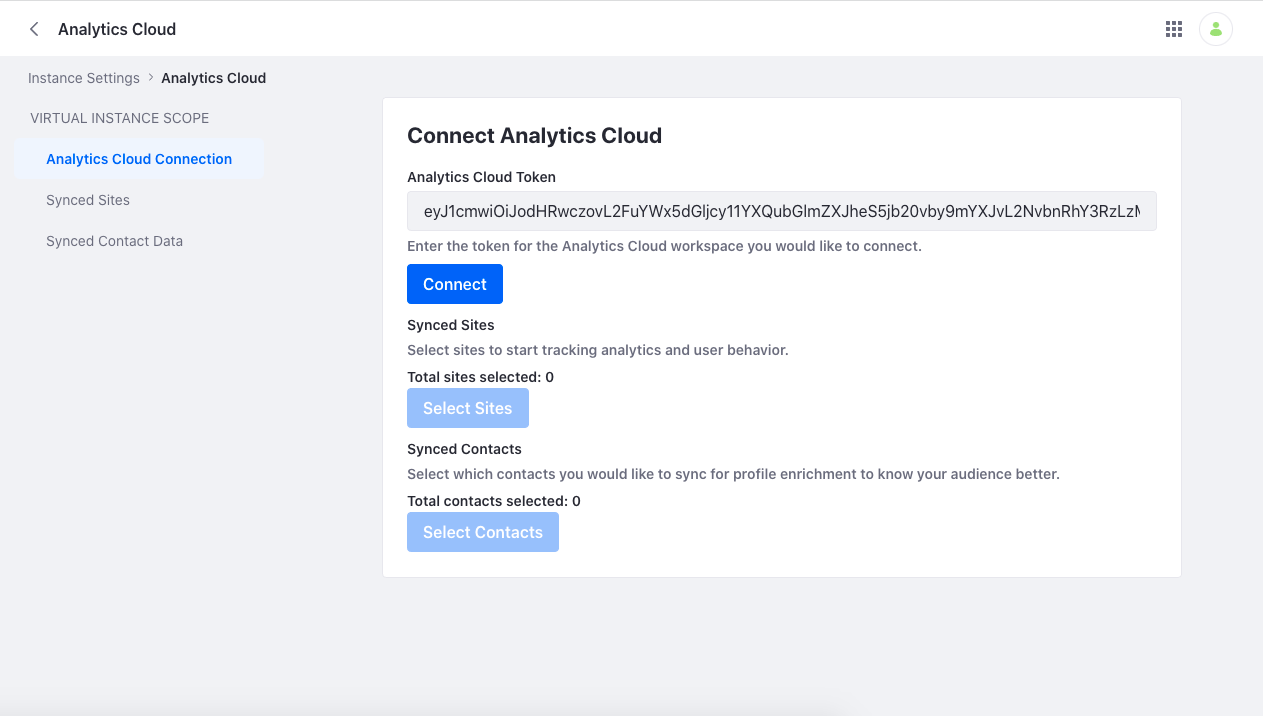
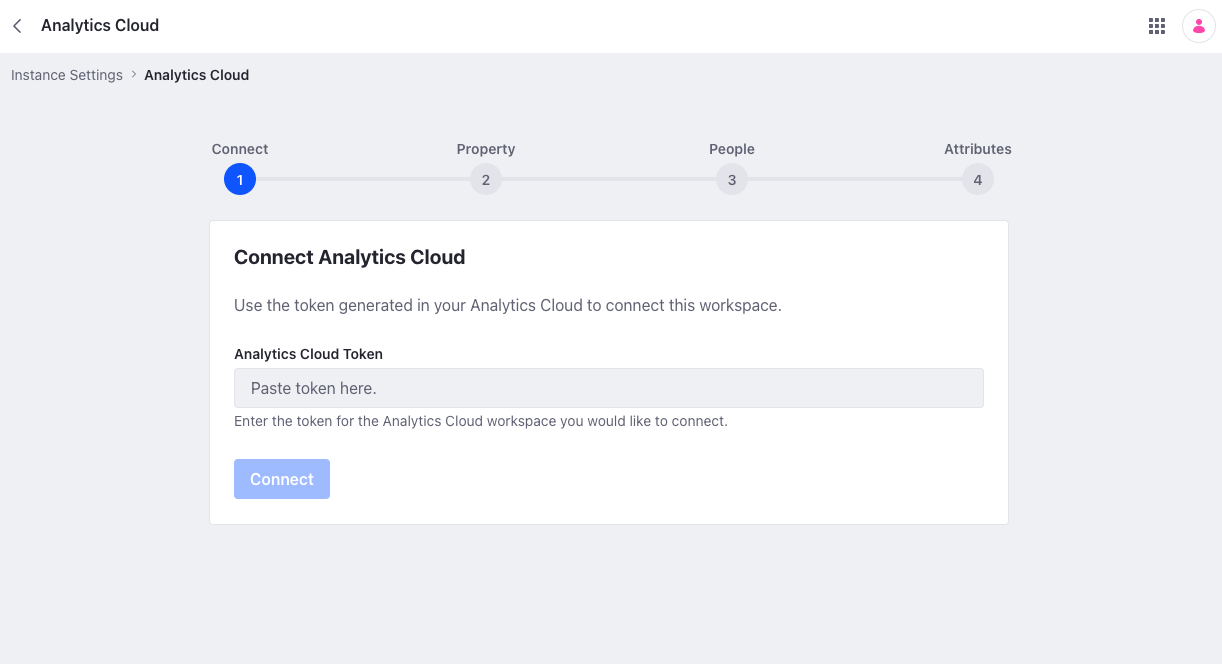
LRDOCS-10561 updates Connecting Liferay DXP to AC article w/imgs, removes old version content

diff --git a/docs/analytics-cloud/latest/en/getting-started/connecting-liferay-dxp-to-analytics-cloud.md b/docs/analytics-cloud/latest/en/getting-started/connecting-liferay-dxp-to-analytics-cloud.md
@@ -17,30 +17,60 @@ To begin the setup process, there are a few requirements:
     * 7.1 Fix Pack 22
     * 7.0 Fix Pack 98
 
-1. You must have access to at least one Analytics Cloud workspace. Note, as a paid Analytics Cloud user, you should see your workspace upon login. If you don't, contact support through [help.liferay.com](https://help.liferay.com/) or email us at <analytics-cloud@liferay.com>. 
+1. You must have access to at least one Analytics Cloud workspace. Note, as a paid Analytics Cloud user, you should see your workspace upon login. If you don't, contact support through [help.liferay.com](https://help.liferay.com/) or email us at <analytics-cloud@liferay.com>.
 
 ## Connection Token
 
-Next, get your Analytics Cloud token and use it to connect your Liferay instance. Liferay Analytics Cloud and Liferay DXP connect via a secure, encrypted token. It's generated by Analytics Cloud and must be copied and pasted into your Liferay DXP configuration.
+Next, get your Analytics Cloud token and use it to connect your Liferay instance. Liferay Analytics Cloud and Liferay DXP connect via a secure, encrypted token. It's generated by Analytics Cloud and must be copied and pasted into your Liferay DXP configuration. If you're using Liferay DXP 7.4 U66 or earlier, see [Connecting Older Versions of Liferay DXP](../workspace-settings/connecting-older-versions-of-liferay-dxp.md) for more information.
 
-1. Log into Analytics Cloud. Select your workspace. If it's your first time logging in, you see an onboarding guide. Click _Next_ and you're shown the Analytics Cloud token in the next screen. Click the Copy icon (![copy icon](../images/icon-copy.png)) to copy the token to your clipboard.
+1. Log into Analytics Cloud. Select your workspace. If it's your first time logging in, you see an onboarding guide. Click _Next_ and you're shown the Analytics Cloud token in the next screen. Click the _Copy_ (![copy icon](../images/icon-copy.png)) icon to copy the token to your clipboard.
 
-   ![You see an onboarding guide upon first login.](./connecting-liferay-dxp-to-analytics-cloud/images/01.png)
+   ![You see an onboarding guide when you login first.](./connecting-liferay-dxp-to-analytics-cloud/images/01.png)
 
    If you canceled out of the onboarding guide, navigate to _Settings_ &rarr; _Data Sources_. Click _Add Data Source_. Select _Liferay DXP_ and the Analytics Cloud token appears. Click the Copy icon (![copy icon](../images/icon-copy.png)) to copy the token to your clipboard.
 
-1. Log into your Liferay DXP instance. Open the Global Menu (![Global Menu](../images/icon-applications-menu.png)). Navigate to _Configuration_ &rarr; _Instance Settings_. Under _Platform_, click _Analytics Cloud_. Paste the Analytics Cloud token in the field and click _Connect_.
+1. Log into your Liferay DXP instance. Open the Global Menu (![Global Menu](../images/icon-applications-menu.png)) and navigate to _Configuration_ &rarr; _Instance Settings_.
 
-    ![Copy the token and click the connect button.](./connecting-liferay-dxp-to-analytics-cloud/images/02.png)
+1. Under _Platform_, click _Analytics Cloud_. You see a 4-step onboarding guide the first time you do this. The first step is to paste the Analytics Cloud token you copied earlier and click _Connect_.
 
-    ```{note}
-    On Liferay DXP 7.0, Analytics Cloud Admin is under *Configuration* &rarr; *Analytics Cloud*.
-    ```
+   ![Copy the token and click Connect.](./connecting-liferay-dxp-to-analytics-cloud/images/02.png)
 
-1. Upon successful connection, the following message appears at the bottom left of your screen:
+1. You can choose the property already created or create a new one by clicking on the _Add_ (![Add Button](../images/icon-add.png)) button. A property is a label associated with a single Liferay site or multiple Liferay sites. Once selected, click _Assign_.
 
-   `Success: Your request completed successfully`
+   ![Choose the property already created or create a new one.](./connecting-liferay-dxp-to-analytics-cloud/images/03.png)
+
+1. In the new modal window, you can select the sites you want to sync with Analytics Cloud. If you enable the _Commerce_ toggle, you can select Commerce [Channels](https://learn.liferay.com/commerce/latest/en/store-management/channels/introduction-to-channels.html) to sync with Analytics Cloud.
+
+   ![You can select sites or the Commerce channels if you enable the Commerce toggle.](./connecting-liferay-dxp-to-analytics-cloud/images/04.gif)
+
+   ```{note}
+   You cannot assign the same channel or site to different properties. But, you can assign different channels or sites to the same property. To learn more about defining a property with multiple sites see [Scoping Sites and Individuals Using Properties](../workspace-settings/scoping-sites-and-individuals-using-properties.md). You can also create a new property by going to Analytics Cloud and navigating to _Settings_ &rarr; _Properties_. Click _New Property_ and input a label. (e.g. Minium Site). This becomes available 
+   ```
+
+1. Click _Next_.
+
+1. Here, you can sync people data that includes accounts and contacts. You can use the toggle to sync all contacts and accounts, or select a subset based on their user groups, organizations or account groups.
+
+   ![Select the contact data you want to sync with Analytics Cloud.](./connecting-liferay-dxp-to-analytics-cloud/images/05.png)
+
+   ```{important}
+   Analytics Cloud gives you tools to sync and manage individual contact data. However, the tools discussed here and anywhere else in the documentation, including those directly aimed at addressing privacy regulations (e.g. GDPR), do not guarantee compliance with these privacy regulations. Each company or individual whose website processes personal data and is under the jurisdiction of specific privacy laws must carefully determine the steps necessary to ensure full compliance with these regulations.
+   ```
+
+1. Click _Next_.
+
+1. Select the attributes you want for each of the entities. If you enabled the _Commerce_ toggle in the previous step, you can select the attributes for the Commerce entities also. Analytics Cloud requires some fields to be synced, so those are grayed out.
+
+   ![Select the attributes to sync for each of the entities.](./connecting-liferay-dxp-to-analytics-cloud/images/06.png)
+
+1. Click _Finish_.
+
+Upon successful connection, the following message appears at the bottom left of your screen:
+
+   `Success: DXP has successfully connected to Analytics Cloud. You will begin to see data as activities occur on your sites.`
 
 Congratulations, your Liferay instance is now connected to Analytics Cloud!
 
-The next step is syncing your Liferay site and your contacts. See [Syncing Sites and Contacts](./syncing-sites-and-contacts.md) and follow the steps.
+```{note}
+You can access these options (_Properties_, _People_, _Attributes_) from the left side menu after completing the onboarding guide also.
+```

diff --git a/docs/analytics-cloud/latest/en/getting-started.md b/docs/analytics-cloud/latest/en/getting-started.md
@@ -11,7 +11,7 @@ uuid: 04d50515-b7e9-43d4-83d7-fff078917d16
 :maxdepth: 3
 
 getting-started/connecting-liferay-dxp-to-analytics-cloud.md
-getting-started/syncing-sites-and-contacts.md
+getting-started/syncing-sites-channels-and-contacts.md
 getting-started/viewing-the-analytics-dashboard.md
 ```
 
